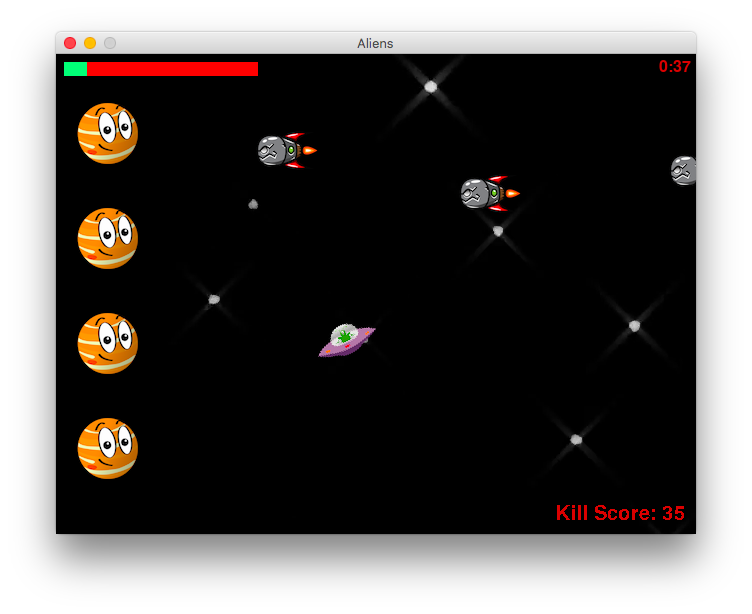
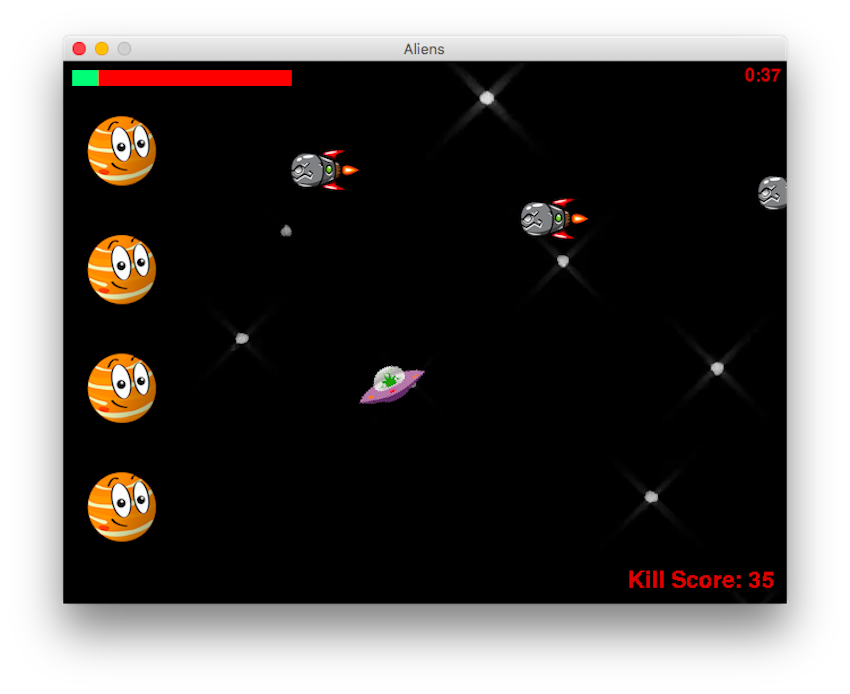
Added Contact Info

diff --git a/index.html b/index.html
@@ -6,18 +6,21 @@
 <meta http-equiv="X-UA-Compatible" content="ie=edge">
 <title>Aifric's Portfolio</title>
 <link rel="stylesheet" href="https://cdnjs.cloudflare.com/ajax/libs/font-awesome/4.7.0/css/font-awesome.min.css">
+<link href="https://fonts.googleapis.com/css?family=Architects+Daughter|Gloria+Hallelujah" rel="stylesheet">
 <link href="https://fonts.googleapis.com/css?family=Pacifico" rel="stylesheet">
+<link href="https://fonts.googleapis.com/css?family=VT323" rel="stylesheet">
+<link href="https://fonts.googleapis.com/css?family=Permanent+Marker" rel="stylesheet">
+<link href="https://fonts.googleapis.com/css?family=Dancing+Script|Montserrat" rel="stylesheet">
 <link href="css/main.css" rel="stylesheet" type="text/css">
 </head>
 
 <body>
-
 <header>
   <nav>
-    <span class="movetext">Aifric's Portfolio</span>
+    <!--<span class="movetext"></span> -->
     <a href="https://docs.google.com/document/d/1c1OHoEGgKR2Fp2FOZx0C3LBnWSlsgNXC8heeuruNYAU/edit?usp=sharing">
             	<img src="https://png.icons8.com/nolan/50/000000/resume.png" alt="Resume"> 
-            </a>
+    </a>
     
     <a href="#home" class="active">Home</a>
     <a href="#about">About</a>
@@ -26,16 +29,14 @@
     <a href="#contactme">Contact Me</a>
   </nav>
 </header>
-    <div class="section">
+    <div class="section one">
   <h2>Aifric Nolan's Portfolio</h2>
-</div>
+	</div>
 
 <div id="home" class="info">
   <div class="quotes">
     "Nobody ever figures out what life is all about, and it doesn't matter. Explore the world. Nearly everything is really interesting if you go into it deeply enough." <br> - Richard P. Feynman 
-  
-
-</div>
+  </div>
 
 </div>
 
@@ -86,7 +87,7 @@
   </article>
   <article class="imagegrid">
     <figure>
-      <img src="images/gameplay2.png" alt="Alien game">
+      <img src="images/alienexample.png" alt="Alien game">
       <figcaption>
         <h1><a href="">Alien Game</a></h1>
       </figcaption>
@@ -117,20 +118,28 @@
 </div>
 
 <div id="contactme" class="info">
-	<p>Hey thanks for checking out my portfolio! Feel free to look me up on LinkedIn or GitHub: <br>
-  <a href="https://www.linkedin.com/in/aifric-nolan-7050a884/"><img src="https://png.icons8.com/nolan/50/000000/linkedin.png"></a>
-  	<!--<a href="https://www.linkedin.com/in/aifric-nolan-7050a884/" class="fa fa-linkedin"></a> -->
-    <a href="https://github.com/afro-nolan"><img src="https://png.icons8.com/nolan/50/000000/github.png" alt="Github Link"></a>
-    <!--<a href="https://github.com/afro-nolan" class="fa fa-github"></a> -->
-    <br>Otherwise, you can check out my resume here: <br>
+
+	<div class="contactbox">
+		<label for="fname">Name</label>
+		<input type="text" id="fname" name="firstname" placeholder="Aifric Nolan" readonly>
+
+    	<label for="country">Location</label>
+    	<input type="text" id="country" name="country" placeholder="Dublin, Ireland" readonly>
+
+    	<label for="email">Email</label>
+    	<input type="text" id="email" name="email" placeholder="aifric.c.nolan@gmail.com" readonly>
+
+    	<label for="resume">Resume</label>
     	<a href="https://docs.google.com/document/d/1c1OHoEGgKR2Fp2FOZx0C3LBnWSlsgNXC8heeuruNYAU/edit?usp=sharing">
-            	<img src="https://png.icons8.com/nolan/50/000000/resume.png" alt="Resume"> 
-        </a>
-    
-  </p>
+            	<img src="https://png.icons8.com/nolan/50/000000/resume.png" alt="Resume"></a>
+        <label for="linkedin"> LinkedIn</label>
+        <a href="https://www.linkedin.com/in/aifric-nolan-7050a884/"><img src="https://png.icons8.com/nolan/50/000000/linkedin.png" alt="linkedIn Link"></a>
+        <label for="github"> Github</label>
+        <a href="https://github.com/afro-nolan"><img src="https://png.icons8.com/nolan/50/000000/github.png" alt="Github Link"></a>
 
-
-</div>
+	</div>
+	
+</div> 
 <footer class="info">
 <p><!--<a href="https://www.linkedin.com/in/aifric-nolan-7050a884/" class="fa fa-linkedin"></a>
         	<a href="https://github.com/afro-nolan" class="fa fa-github"></a> -->

diff --git a/css/main.css b/css/main.css
@@ -2,8 +2,9 @@
 body {
   margin: 0;
   padding: 0;
-  font-family: "Source Sans Pro", sans-serif;
+  /*font-family: "Source Sans Pro", sans-serif; */
   font-size: 20px;
+  font-family: 'Montserrat', sans-serif;
 }
 
 header nav {
@@ -13,6 +14,7 @@ header nav {
   font-size: 1em;
   position: fixed;
   width: 100%;
+  top: 0;
 }
 header nav a {
   color: inherit;
@@ -33,7 +35,6 @@ header nav a:hover {
 }
 
 .section {
-  
   background-image: url(../images/painting.jpeg);
   background-position: center center;
   background-attachment: fixed;
@@ -51,6 +52,10 @@ header nav a:hover {
   margin: 0;
   text-shadow: 0 0 10px black;
   background: rgba(0,0,0,0.6);
+  font-family: 'Permanent Marker', cursive;
+  top: 0;
+  /*font-family: 'Architects Daughter', cursive; */
+  /*font-family: 'VT323', monospace; */
 }
 
 .info {
@@ -62,9 +67,10 @@ header nav a:hover {
 }
 
 .quotes {
-  font-family: 'Pacifico', cursive;
+  /*font-family: 'Pacifico', cursive; */
+  font-family: 'Dancing Script', cursive;
   text-align: center;
-  font-size: larger;
+  font-size: 30px;
 }
 
 footer.info {
@@ -92,7 +98,7 @@ nav img {
 }
 
 .move {
-  top: -60px;
+  top: -70px;
 }
 
 nav span {
@@ -110,85 +116,6 @@ nav span {
 .proj {
   padding: 20px;
   margin-top: 20px;
-}
-
-@import "https://fonts.googleapis.com/css?family=Source+Sans+Pro:700";
-*,
-*::before,
-*::after {
-  -webkit-box-sizing: border-box;
-  -moz-box-sizing: border-box;
-  box-sizing: border-box;
-}
-
-.flex {
-  min-height: 50vh;
-  display: flex;
-  align-items: center;
-  justify-content: center;
-}
-
-a.bttn {
-  color: #FF0072;
-  text-decoration: none;
-  -webkit-transition: 0.3s all ease;
-  transition: 0.3s ease all;
-}
-a.bttn:hover {
-  color: #FFF;
-}
-a.bttn:focus {
-  color: #FFF;
-}
-
-#bttn {
-  font-size: 18px;
-  letter-spacing: 2px;
-  text-transform: uppercase;
-  display: inline-block;
-  text-align: center;
-  width: 270px;
-  font-weight: bold;
-  padding: 14px 0px;
-  border: 3px solid #FF0072;
-  border-radius: 2px;
-  position: relative;
-  box-shadow: 0 2px 10px rgba(0, 0, 0, 0.16), 0 3px 6px rgba(0, 0, 0, 0.1);
-  font-family: "Source Sans Pro", sans-serif;
-  background: #FFFAF0;;
-  -webkit-font-smoothing: antialiased;
-}
-#bttn:before {
-  -webkit-transition: 0.5s all ease;
-  transition: 0.5s all ease;
-  position: absolute;
-  top: 0;
-  left: 50%;
-  right: 50%;
-  bottom: 0;
-  opacity: 0;
-  content: '';
-  background-color: #FF0072;
-  z-index: -2;
-}
-#bttn:hover:before {
-  -webkit-transition: 0.5s all ease;
-  transition: 0.5s all ease;
-  left: 0;
-  right: 0;
-  opacity: 1;
-}
-#bttn:focus:before {
-  transition: 0.5s all ease;
-  left: 0;
-  right: 0;
-  opacity: 1;
-}
-
-#quoteGenius {
-  font-style: italic;
-  font-weight: 600;
-  text-align: center;
 }
 
 @media screen and (max-width:; 800px) {
@@ -229,7 +156,7 @@ a.bttn:focus {
   .imagegrid {
     display: grid;
     grid-template-columns: repeat(auto-fill, minmax(300px, 1fr));
-    grid-gap: 1rem;
+    grid-gap: 0.5rem;
   }
 
   .imagegrid > * {
@@ -297,3 +224,25 @@ a.bttn:focus {
   transition: all 0.3s ease-in-out;
 }
 
+.contactbox {
+  border-radius: 12px;
+  border-style: solid;
+  border-color: #442211;
+  background-color: #ff7799;
+  /*background-color: #f7e6f0; */
+  padding: 20px;
+  font-size: 30px;
+  color: #23191f;
+  font-family: 'Gloria Hallelujah', cursive;
+}
+input[type=text], select {
+    width: 100%;
+    padding: 12px 20px;
+    margin: 8px 0;
+    display: inline-block;
+    border: 1px solid #a51769;
+    border-radius: 4px;
+    box-sizing: border-box;
+    font-size: 20px;
+    font-family: 'Gloria Hallelujah', cursive;
+}

diff --git a/javascript/main.js b/javascript/main.js
@@ -1,17 +1,4 @@
 // JavaScript Document
-import Math;
-
-var text = [
-  "One",
-  "Two",
-  "Three",
-  "Four",
-  "Five"
-];
-
-document.getElementById("select").onclick = function() {
-  document.getElementById("result").innerHTML = text[Math.floor(Math.random() * text.length)];
-}
 const parallax = document.getElementById("parallax");
 
 window.addEventListener("scroll", function() {
